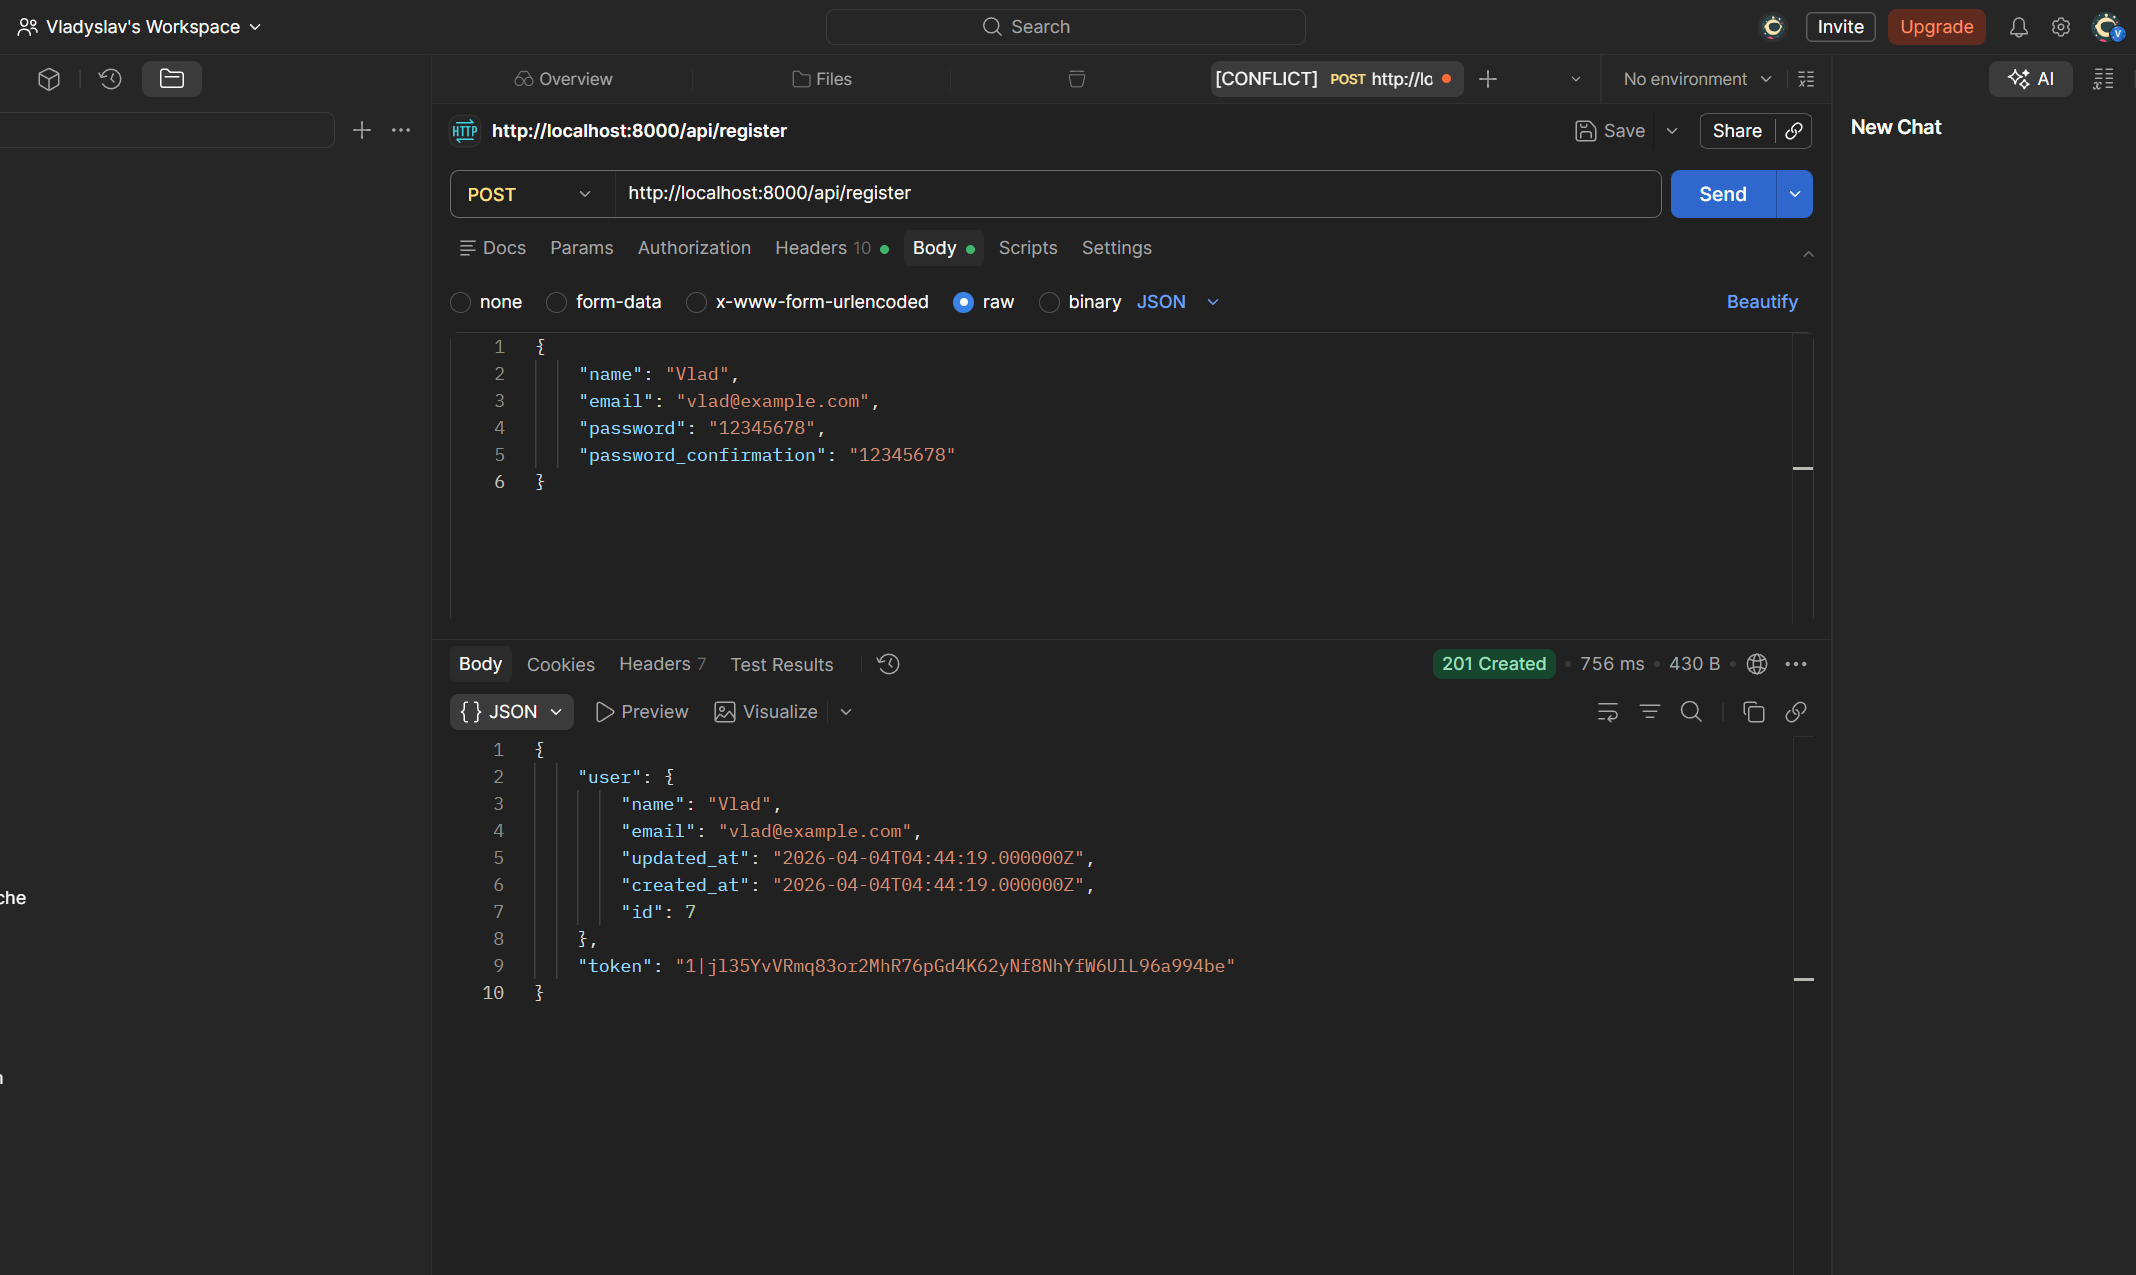
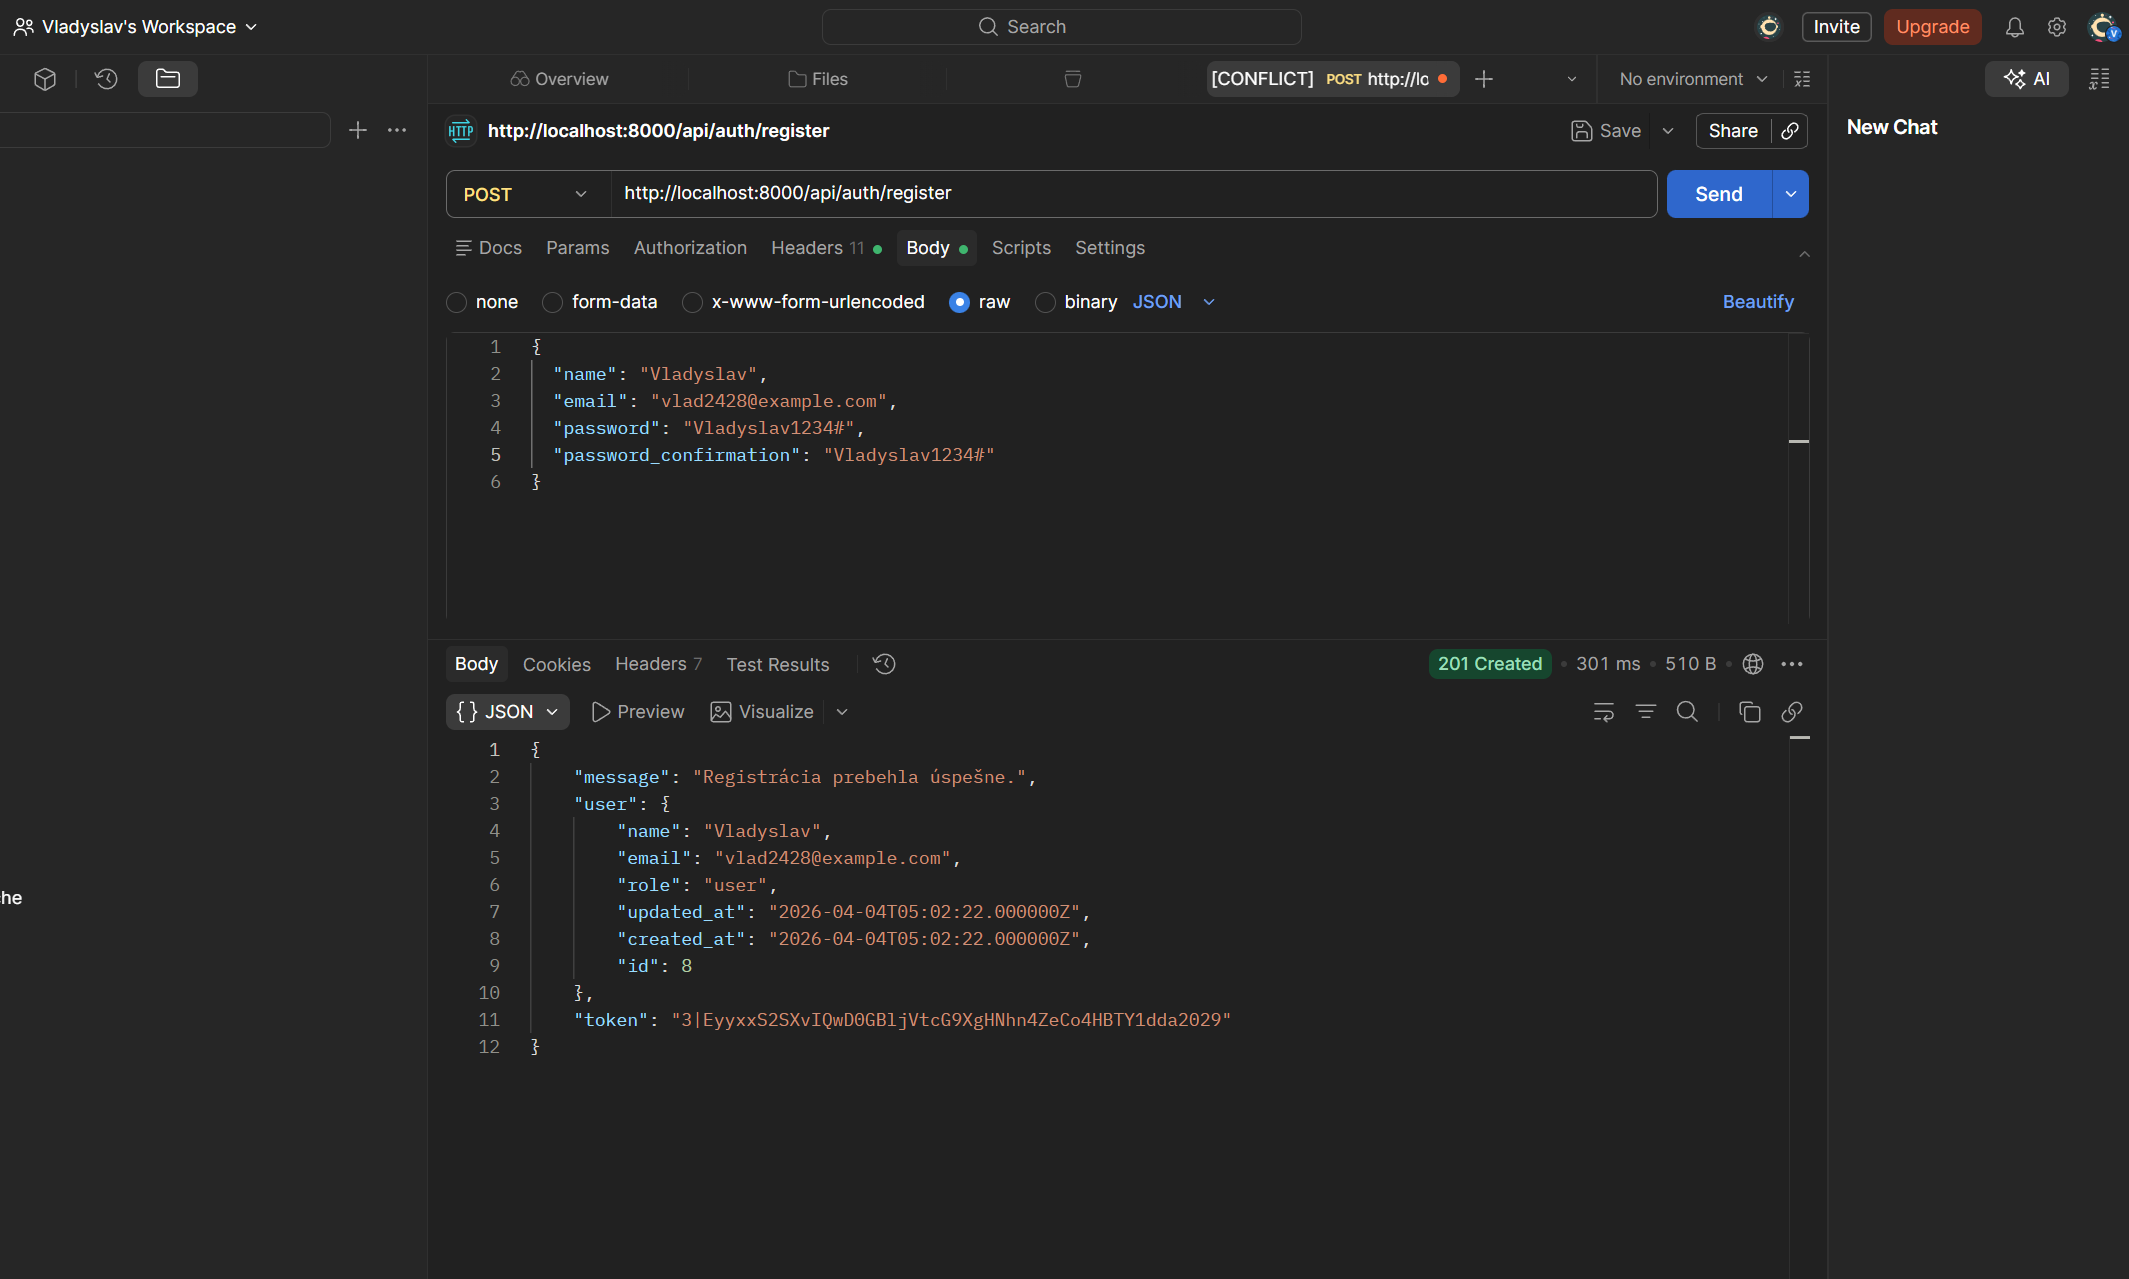
Cvicenie 7: FIX AuthController

diff --git a/app/Http/Controllers/AuthController.php b/app/Http/Controllers/AuthController.php
@@ -4,55 +4,72 @@ namespace App\Http\Controllers;
 
 use Illuminate\Http\Request;
 use Illuminate\Support\Facades\Hash;
-use Illuminate\Validation\ValidationException;
+use Illuminate\Validation\Rules\Password;
+use Symfony\Component\HttpFoundation\Response;
 use App\Models\User;
 
 class AuthController extends Controller
 {
     public function register(Request $request)
     {
-        $request->validate([
-            'name' => 'required|string|max:255',
-            'email' => 'required|string|email|unique:users,email',
-            'password' => 'required|string|min:6|confirmed',
+        $validated = $request->validate([
+            'name'     => ['required', 'string', 'min:2', 'max:128'],
+            'email'    => ['required', 'email', 'max:255', 'unique:users,email'],
+            'password' => ['required', 'confirmed', Password::min(12)
+                ->letters()
+                ->mixedCase()
+                ->numbers()
+                ->symbols()],
         ]);
+
         $user = User::create([
-            'name' => $request->name,
-            'email' => $request->email,
-            'password' => Hash::make($request->password),
+            'name'     => $validated['name'],
+            'email'    => $validated['email'],
+            'password' => $validated['password'], // каст в модели уже захеширует
+            'role'     => User::ROLE_USER,        // по умолчанию 'user'
         ]);
-        $token = $user->createToken('api_token')->plainTextToken;
+
+        $token = $user->createToken('auth-token')->plainTextToken;
 
         return response()->json([
-            'user' => $user,
-            'token' => $token,
-        ], 201);
+            'message' => 'Registrácia prebehla úspešne.',
+            'user'    => $user,
+            'token'   => $token,
+        ], Response::HTTP_CREATED);
     }
     public function login(Request $request)
     {
-        $request->validate([
-            'email' => 'required|string|email',
-            'password' => 'required|string',
+        $validated = $request->validate([
+            'email'    => ['required', 'email'],
+            'password' => ['required', 'string'],
         ]);
-        $user = User::where('email', $request->email)->first();
 
-        if (! $user || ! Hash::check($request->password, $user->password)) {
-            throw ValidationException::withMessages([
-                'email' => ['The provided credentials are incorrect.'],
-            ]);
+        $user = User::where('email', $validated['email'])->first();
+
+        if (!$user || !Hash::check($validated['password'], $user->password)) {
+            return response()->json([
+                'message' => 'Nesprávny email alebo heslo.',
+            ], Response::HTTP_UNAUTHORIZED);
         }
-        $token = $user->createToken('api_token')->plainTextToken;
+
+        $token = $user->createToken('auth-token')->plainTextToken;
 
         return response()->json([
-            'user' => $user,
-            'token' => $token,
-        ]);
+            'message' => 'Prihlásenie bolo úspešné.',
+            'user'    => $user,
+            'token'   => $token,
+        ], Response::HTTP_OK);
+    }
+    public function me(Request $request)
+    {
+        return response()->json($request->user());
     }
     public function logout(Request $request)
     {
         $request->user()->currentAccessToken()->delete();
+
         return response()->json([
-            'message' => 'Logged out successfully',
-        ]);
+            'message' => 'Odhlásenie prebehlo úspešne.',
+        ], Response::HTTP_OK);
     }
 }

diff --git a/routes/api.php b/routes/api.php
@@ -33,6 +33,11 @@ Route::patch('notes/{id}/publish', [NoteController::class, 'publish']);
 Route::patch('notes/{id}/archive', [NoteController::class, 'archive']);
 Route::get('users/{user}/latest-notes', [NoteController::class, 'latestUserNotes']);
 // AuthController
-Route::post('/login', [AuthController::class, 'login']);
-Route::post('/register', [AuthController::class, 'register']);
-Route::middleware('auth:sanctum')->post('/logout', [AuthController::class, 'logout']);
+Route::prefix('auth')->group(function () {
+    Route::post('/register', [AuthController::class, 'register']);
+    Route::post('/login', [AuthController::class, 'login']);
+    Route::middleware('auth:sanctum')->group(function () {
+        Route::get('/me', [AuthController::class, 'me']);
+        Route::post('/logout', [AuthController::class, 'logout']);
+    });
+});

diff --git a/README.md b/README.md
@@ -13,15 +13,18 @@
 
 The method was tested in Postman:
 
-• POST /api/login
+• POST /api/auth/login
 
-• POST /api/register
+• POST /api/auth/register
 
-• POST /api/logout
+• POST /api/auth/me
+
+• POST /api/auth/logout
 
 ![1.png](images/auth/1.png)
 ![2.png](images/auth/2.png)
 ![3.png](images/auth/3.png)
+![4.png](images/auth/4.png)
 
 ## Images (Cvicenie 6) - Connections and Factories
 
